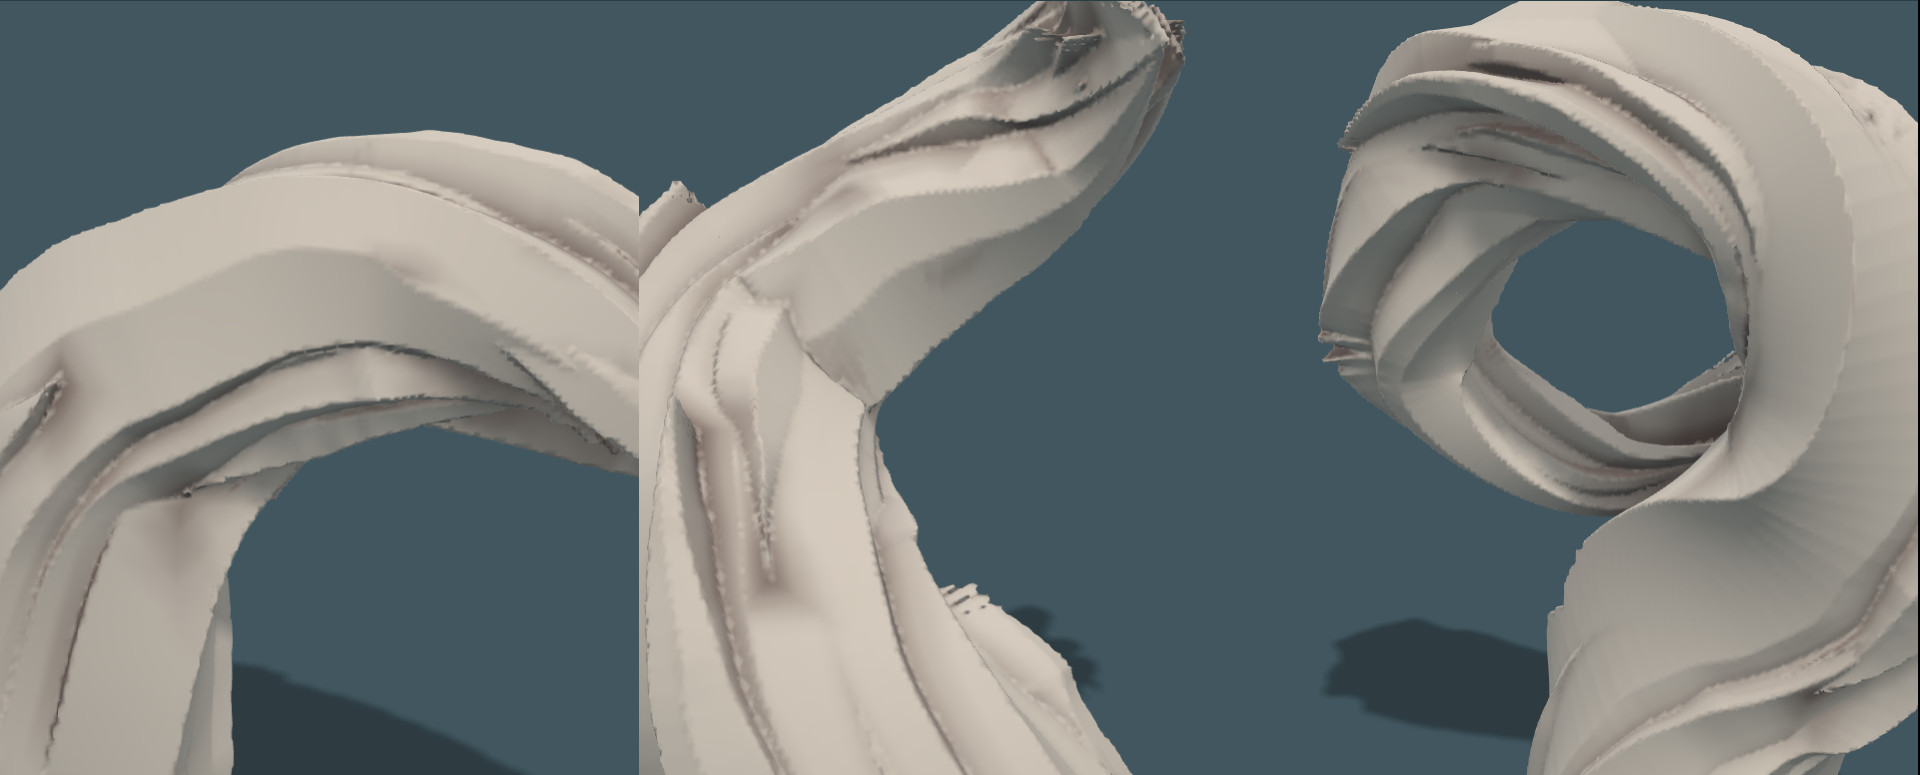
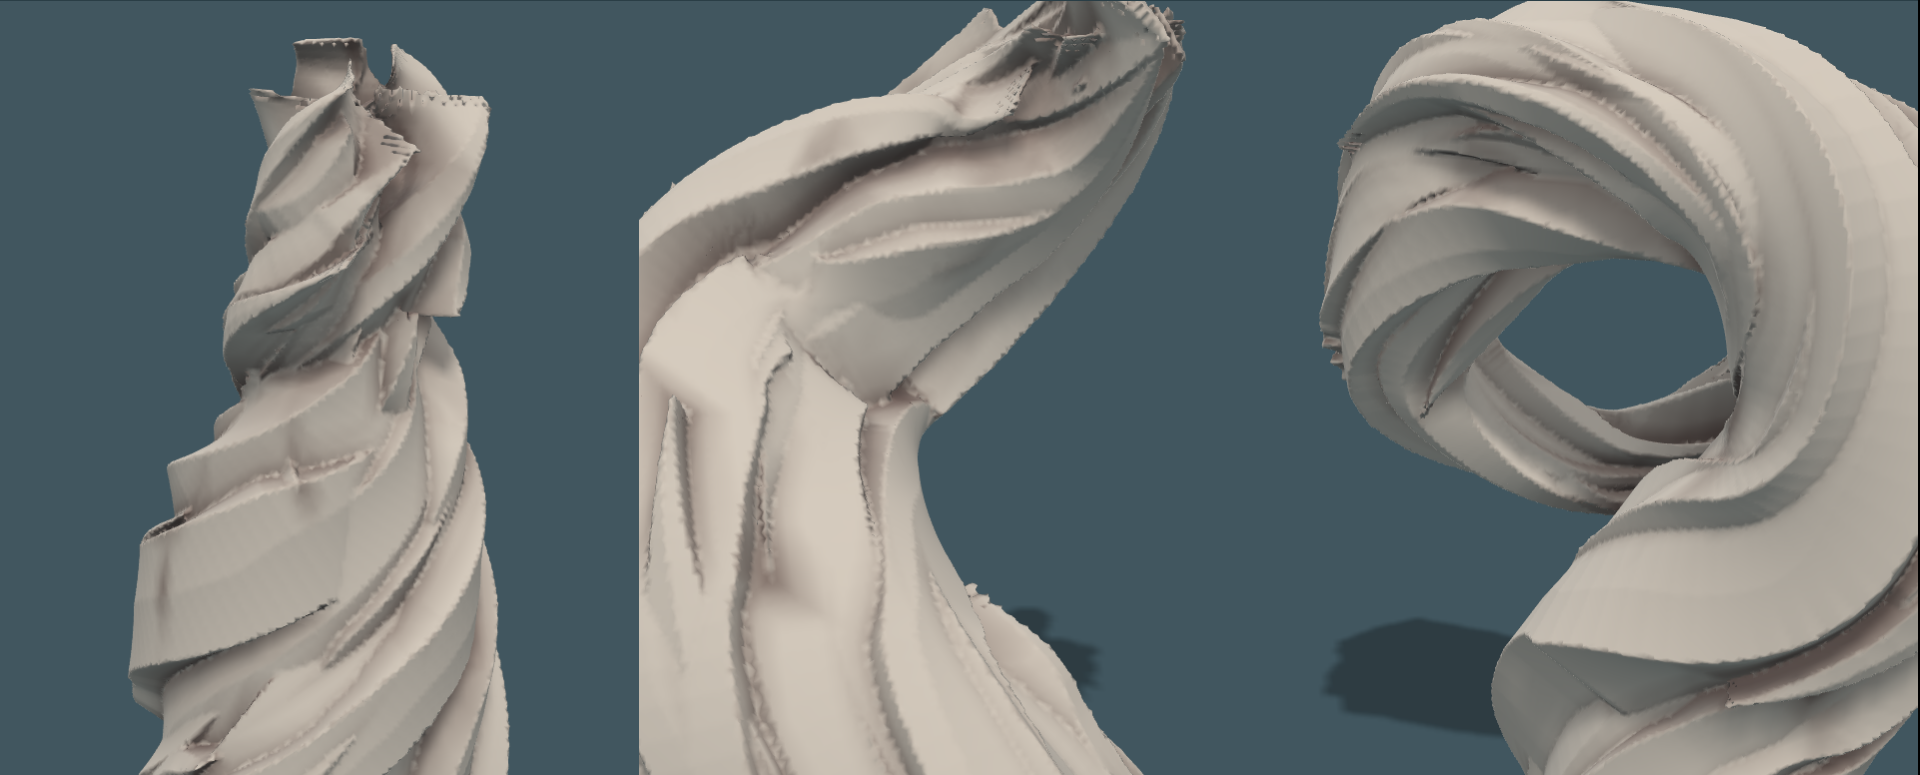
Sketchbook page 5: an outer layer of broad bands over the inner wood
Claude-Session: https://claude.ai/code/session_0192rgp75jGkttZXf7hEakip

diff --git a/sketch/page5.js b/sketch/page5.js
@@ -4,6 +4,7 @@
 // it follows, so on the outside of a bend or a twist its far end stands off. Between its ends a shard has a
 // little give: it draws in or spreads, drifts and sinks. And its ridge and edges do not run true: they hold,
 // lean, and jog to one side, at uneven intervals.
+// Over the inner wood lies an outer layer: a few broad thin bands of the same stuff, with gaps between.
 // The same four test pieces: a twist, a turn, a winding, and all three.
 // Throwaway like the other pages. Built with the clay kit from cheats/fantastic.js.
 (function () {
@@ -31,7 +32,6 @@
   function shard(K) {
     const n = K.C.length, L = [0], Tv = K.C.map((c, i) => unit([0, 1, 2].map((k) => K.C[Math.min(n - 1, i + 1)][k] - K.C[Math.max(0, i - 1)][k])));
     for (let i = 1; i < n; i++) L.push(L[i - 1] + H(K.C[i][0] - K.C[i - 1][0], K.C[i][1] - K.C[i - 1][1], K.C[i][2] - K.C[i - 1][2]));
-    const lo = [9, 9, 9], hi = [-9, -9, -9]; K.C.forEach((c, i) => { const m = K.W[i] + K.Hh[i] + K.deep; for (let k = 0; k < 3; k++) { lo[k] = Math.min(lo[k], c[k] - m); hi[k] = Math.max(hi[k], c[k] + m); } });
     const rw = rng(K.seed), wmax = Math.max(0.05, ...K.W), jog = wander(L[n - 1], rw, wmax), rjog = wander(L[n - 1], rw, wmax);   // its whole run wanders a little side to side, and its ridge wanders more
     const f = (x, y, z) => {
       // the nearest stretch of its line: found roughly first, then exactly near there
@@ -47,19 +47,19 @@
       if ((x - c[0]) ** 2 + (y - c[1]) ** 2 + (z - c[2]) ** 2 > (Math.sqrt(bd) + 0.03) ** 2) { at = bi + bt; c = mix(K.C[bi], K.C[bi + 1], bt); T = unit(mix(Tv[bi], Tv[bi + 1], bt)); }
       bi = clamp(Math.floor(at), 0, n - 2); bt = at - bi;
       const side = unit(cross(T, mix(K.O[bi], K.O[bi + 1], bt))), o = cross(side, T), d3 = [x - c[0], y - c[1], z - c[2]];
-      const pre = at <= 0 || at >= n - 1 ? dot(d3, T) : 0, v = dot(d3, o), w = lerp(K.W[bi], K.W[bi + 1], bt), h = lerp(K.Hh[bi], K.Hh[bi + 1], bt), s = lerp(L[bi], L[bi + 1], bt) + pre, u = dot(d3, side) - jog(s) * 0.16 * K.wiggle * w;
+      const along = dot(d3, T), pre = at <= 0 || at >= n - 1 ? along : 0, v = dot(d3, o), w = lerp(K.W[bi], K.W[bi + 1], bt), h = lerp(K.Hh[bi], K.Hh[bi + 1], bt), s = lerp(L[bi], L[bi + 1], bt) + pre, u = dot(d3, side) - jog(s) * 0.16 * K.wiggle * w;
       const xm = clamp(K.ridge + rjog(s) * 0.3 * K.wiggle, -0.85, 0.85) * w, yl = h * K.eL, yr = h * K.eR, lx = -(h - yl), ly = xm + w, rx = h - yr, ry = w - xm;
       // inside all of: the two faces of the roof, the two side walls, a floor well below, and the two ends
-      return Math.max(((u + w) * lx + (v - yl) * ly) / H(lx, ly), ((u - xm) * rx + (v - h) * ry) / H(rx, ry), -u - w, u - w, -v - K.deep, -s, s - L[n - 1] + K.skew * u);
+      return Math.max(((u + w) * lx + (v - yl) * ly) / H(lx, ly), ((u - xm) * rx + (v - h) * ry) / H(rx, ry), -u - w, u - w, -v - K.deep, -s, s - L[n - 1] + K.skew * u, pre ? -1 : Math.abs(along) - 0.03);   // and never out past a fold in its own line
     };
-    return { f, lo, hi };
+    return { f, C: K.C, reach: K.C.map((c, i) => K.W[i] + K.Hh[i] + K.deep) };
   }
   // wood round a guide line that carries a girth. Two layers of shards on a hidden core: wide ones that give
   // the piece its bulk, and narrower, shorter ones lying on them.
   function wood(guide, o) {
     const M = 216, G = through(guide, M), frames = [], r = rng(o.seed || 1), r2 = rng((o.seed || 1) + 100), r3 = rng((o.seed || 1) + 200), give = o.give === undefined ? 1 : o.give; let N = null;
     for (let i = 0; i <= M; i++) { const T = unit([0, 1, 2].map((k) => G[Math.min(M, i + 1)][k] - G[Math.max(0, i - 1)][k])); N = unit((N || [1, 0, 0.2]).map((v, k, A) => v - T[k] * dot(A, T))); frames.push([T, N, cross(T, N)]); }
-    const all = [];
+    const all = []; let turns = o.turns;
     const lay = (i0, i1, th0, rho, wide, high, lift, point, stiff, P) => {
       const fine = (q) => Math.min(1, (1 - q) / point, i0 ? q / 0.3 : 1);
       const C = [], O = [], W = [], Hh = [], n = i1 - i0; let run = 0, straight = null, T0 = null;
@@ -68,14 +68,15 @@
       const waves = Math.max(1, Math.round(n / 110)), skew = 0.75 + 0.6 * r2(), sign = () => (r2() < 0.5 ? -1 : 1) * (0.5 + 0.5 * r2()), draw = 0.3 * sign() * give, drift = 0.32 * sign() * give, sink = 0.28 * r2() * give;
       const bow = (q) => Math.sin(PI * waves * Math.pow(q, skew)) * Math.sin(PI * q) ** 0.5;
       for (let i = i0; i <= i1; i += 2) {
-        const [Tn, Nn, Bn] = frames[i], R = G[i][3], q = (i - i0) / n, th = th0 + TAU * o.turns * Math.pow(i / M, o.ramp || 1), out = [0, 1, 2].map((k) => Nn[k] * Math.cos(th) + Bn[k] * Math.sin(th));
+        const [Tn, Nn, Bn] = frames[i], R = G[i][3], q = (i - i0) / n, th = th0 + TAU * turns * Math.pow(i / M, o.ramp || 1), out = [0, 1, 2].map((k) => Nn[k] * Math.cos(th) + Bn[k] * Math.sin(th));
         const b = bow(q), on = [0, 1, 2].map((k) => G[i][k] + out[k] * R * (rho + lift * q * q) + (Bn[k] * Math.cos(th) - Nn[k] * Math.sin(th)) * R * wide * drift * b);
-        if (!straight) { straight = on; T0 = unit([0, 1, 2].map((k) => Tn[k] + (Bn[k] * Math.cos(th) - Nn[k] * Math.sin(th)) * TAU * o.turns * rho * R * 0.5)); } else run += H(G[i][0] - G[i - 2][0], G[i][1] - G[i - 2][1], G[i][2] - G[i - 2][2]);
+        if (!straight) { straight = on; T0 = unit([0, 1, 2].map((k) => Tn[k] + (Bn[k] * Math.cos(th) - Nn[k] * Math.sin(th)) * TAU * turns * rho * R * 0.5)); } else run += H(G[i][0] - G[i - 2][0], G[i][1] - G[i - 2][1], G[i][2] - G[i - 2][2]);
         // too stiff for its line: part way between following it and running straight on from where it began
         // and never more than about half a girth off it
         const off = [0, 1, 2].map((k) => straight[k] + T0[k] * run - on[k]), far = H(off[0], off[1], off[2]) || 1e-9, stay = Math.min(stiff * q * q, 0.55 * R / far), p = [0, 1, 2].map((k) => on[k] + off[k] * stay);
         C.push(p); O.push(out); W.push(Math.max(0.004, R * wide * (1 + draw * b) * fine(q))); Hh.push(R * high * (1 - sink * Math.abs(b)) * (0.5 + 0.5 * fine(q)));
       }
+      for (let pass = 0; pass < 4; pass++) for (let k = 1; k < C.length - 1; k++) C[k] = [0, 1, 2].map((q) => 0.5 * C[k][q] + 0.25 * (C[k - 1][q] + C[k + 1][q]));   // its line is kept fair
       if (C.length > 1) all.push(shard(Object.assign({ C, O, W, Hh, deep: G[i0][3] * 0.5, seed: 1 + Math.floor(r3() * 1e6), wiggle: o.wiggle === undefined ? 1 : o.wiggle }, P)));
     };
     // the wide ones: side by side all the way round, most from the ground up, ending at different heights
@@ -84,9 +85,17 @@
     // the narrow ones: anywhere, any length, their far ends lifting
     for (let j = 0; j < (o.narrow || 14); j++) { const i0 = Math.round(M * 0.86 * r()), len = Math.round(M * (0.12 + 0.3 * r()));
       lay(i0, Math.min(M, i0 + len), TAU * r(), 0.7 + 0.1 * r(), 0.2 + 0.2 * r(), 0.14 + 0.14 * r(), o.lift * (0.4 + r()), 0.6, o.stiff, { ridge: 0.8 * (r() - 0.5), eL: 0.1 + 0.6 * r(), eR: 0.1 + 0.6 * r(), skew: 2 * (r() - 0.5) }); }
+    // the outer layer: a few broad, thin bands of the same wood lying over all of that. They do not close round
+    // it: the inner wood shows in the gaps between them, at the foot where a band starts above the ground, and
+    // past where each one ends. They go round a little more than the inner wood does, so the two grains cross.
+    turns = o.turns + (o.cross === undefined ? 0.3 : o.cross); const nO = o.outer === undefined ? 4 : o.outer;
+    for (let j = 0; j < nO; j++) { const i0 = j % 2 ? Math.round(M * (0.05 + 0.2 * r3())) : 0, i1 = Math.round(M * (0.6 + 0.4 * r3()));
+      lay(i0, i1, o.phase + 0.5 + TAU * (j + 0.35 * (r3() - 0.5)) / nO, 0.97, 0.42 * (0.75 + 0.5 * r3()), 0.1 + 0.06 * r3(), 0, 0.25, o.stiff * 0.3, { ridge: 0.6 * (r3() - 0.5), eL: 0.45 + 0.4 * r3(), eR: 0.45 + 0.4 * r3(), skew: 1.5 * (r3() - 0.5) }); }
     // which shards are near which place, so that only those are asked
     const cell = 0.12, grid = new Map(), key = (x, y, z) => (x + 64) * 16384 + (y + 64) * 128 + z + 64;
-    all.forEach((s, i) => { for (let x = Math.floor((s.lo[0] - 0.1) / cell); x <= Math.floor((s.hi[0] + 0.1) / cell); x++) for (let y = Math.floor((s.lo[1] - 0.1) / cell); y <= Math.floor((s.hi[1] + 0.1) / cell); y++) for (let z = Math.floor((s.lo[2] - 0.1) / cell); z <= Math.floor((s.hi[2] + 0.1) / cell); z++) { const k = key(x, y, z), b = grid.get(k); if (b) b.push(i); else grid.set(k, [i]); } });
+    // a shard is entered only in the cells along its own line, not in every cell of the box round it
+    all.forEach((s, i) => { const seen = new Set(); s.C.forEach((c, j) => { const m = s.reach[j] + 0.1;
+      for (let x = Math.floor((c[0] - m) / cell); x <= Math.floor((c[0] + m) / cell); x++) for (let y = Math.floor((c[1] - m) / cell); y <= Math.floor((c[1] + m) / cell); y++) for (let z = Math.floor((c[2] - m) / cell); z <= Math.floor((c[2] + m) / cell); z++) { const k = key(x, y, z); if (seen.has(k)) continue; seen.add(k); const b = grid.get(k); if (b) b.push(i); else grid.set(k, [i]); } }); });
     return (x, y, z) => { const b = grid.get(key(Math.floor(x / cell), Math.floor(y / cell), Math.floor(z / cell))); if (!b) return 0.1; let d = 0.1; for (const i of b) d = Math.min(d, all[i].f(x, y, z)); return d; };   // joined hard: no blending anywhere
   }
   const S = [

diff --git a/LOG.md b/LOG.md
@@ -782,3 +782,29 @@ along a shard.
   smooth again.
 
 Not there: thin tips still jagged at the mesh's size; no hollows or knots.
+
+Knots and hollows put off: "one step ahead of what needs to be done."
+Asked for first: "a secondary layer of bands around the branch. It's not
+necessarily bark, still core wood, but the outer layer."
+
+Added, as read here: four broad thin bands of the same shards lying over
+everything else. They do not close round the piece. The inner wood shows
+in the gaps between them, at the foot where every second band starts above
+the ground, and past where each one ends. They go round 0.3 of a turn more
+than the inner wood over the length of a piece, so the two grains cross at
+a slight angle. They have the same give and the same wandering edges.
+`sketch/page5.png`, `sketch/page5-close.png`; the state before is kept as
+`sketch/page5-before-outer-layer.png`.
+
+Broke on the way: stray bits in the air beside the winding piece. An outer
+band on the inside of a tight bend has a line that folds back on itself,
+and a shard's shape was unbounded past such a fold. Now bounded, and lines
+are kept fair.
+
+What it looks like: there are plainly two layers now, with depth between
+them. But in places, most on the twist and at the foot of the turn, the
+outer bands read as cloth wound round the piece, not wood: they are broad,
+thin, nearly featureless on their faces, and lie too obediently. One band
+on the twist ends in a blunt corner.
+
+Slower: each piece now takes 20 to 35 seconds to mesh.
